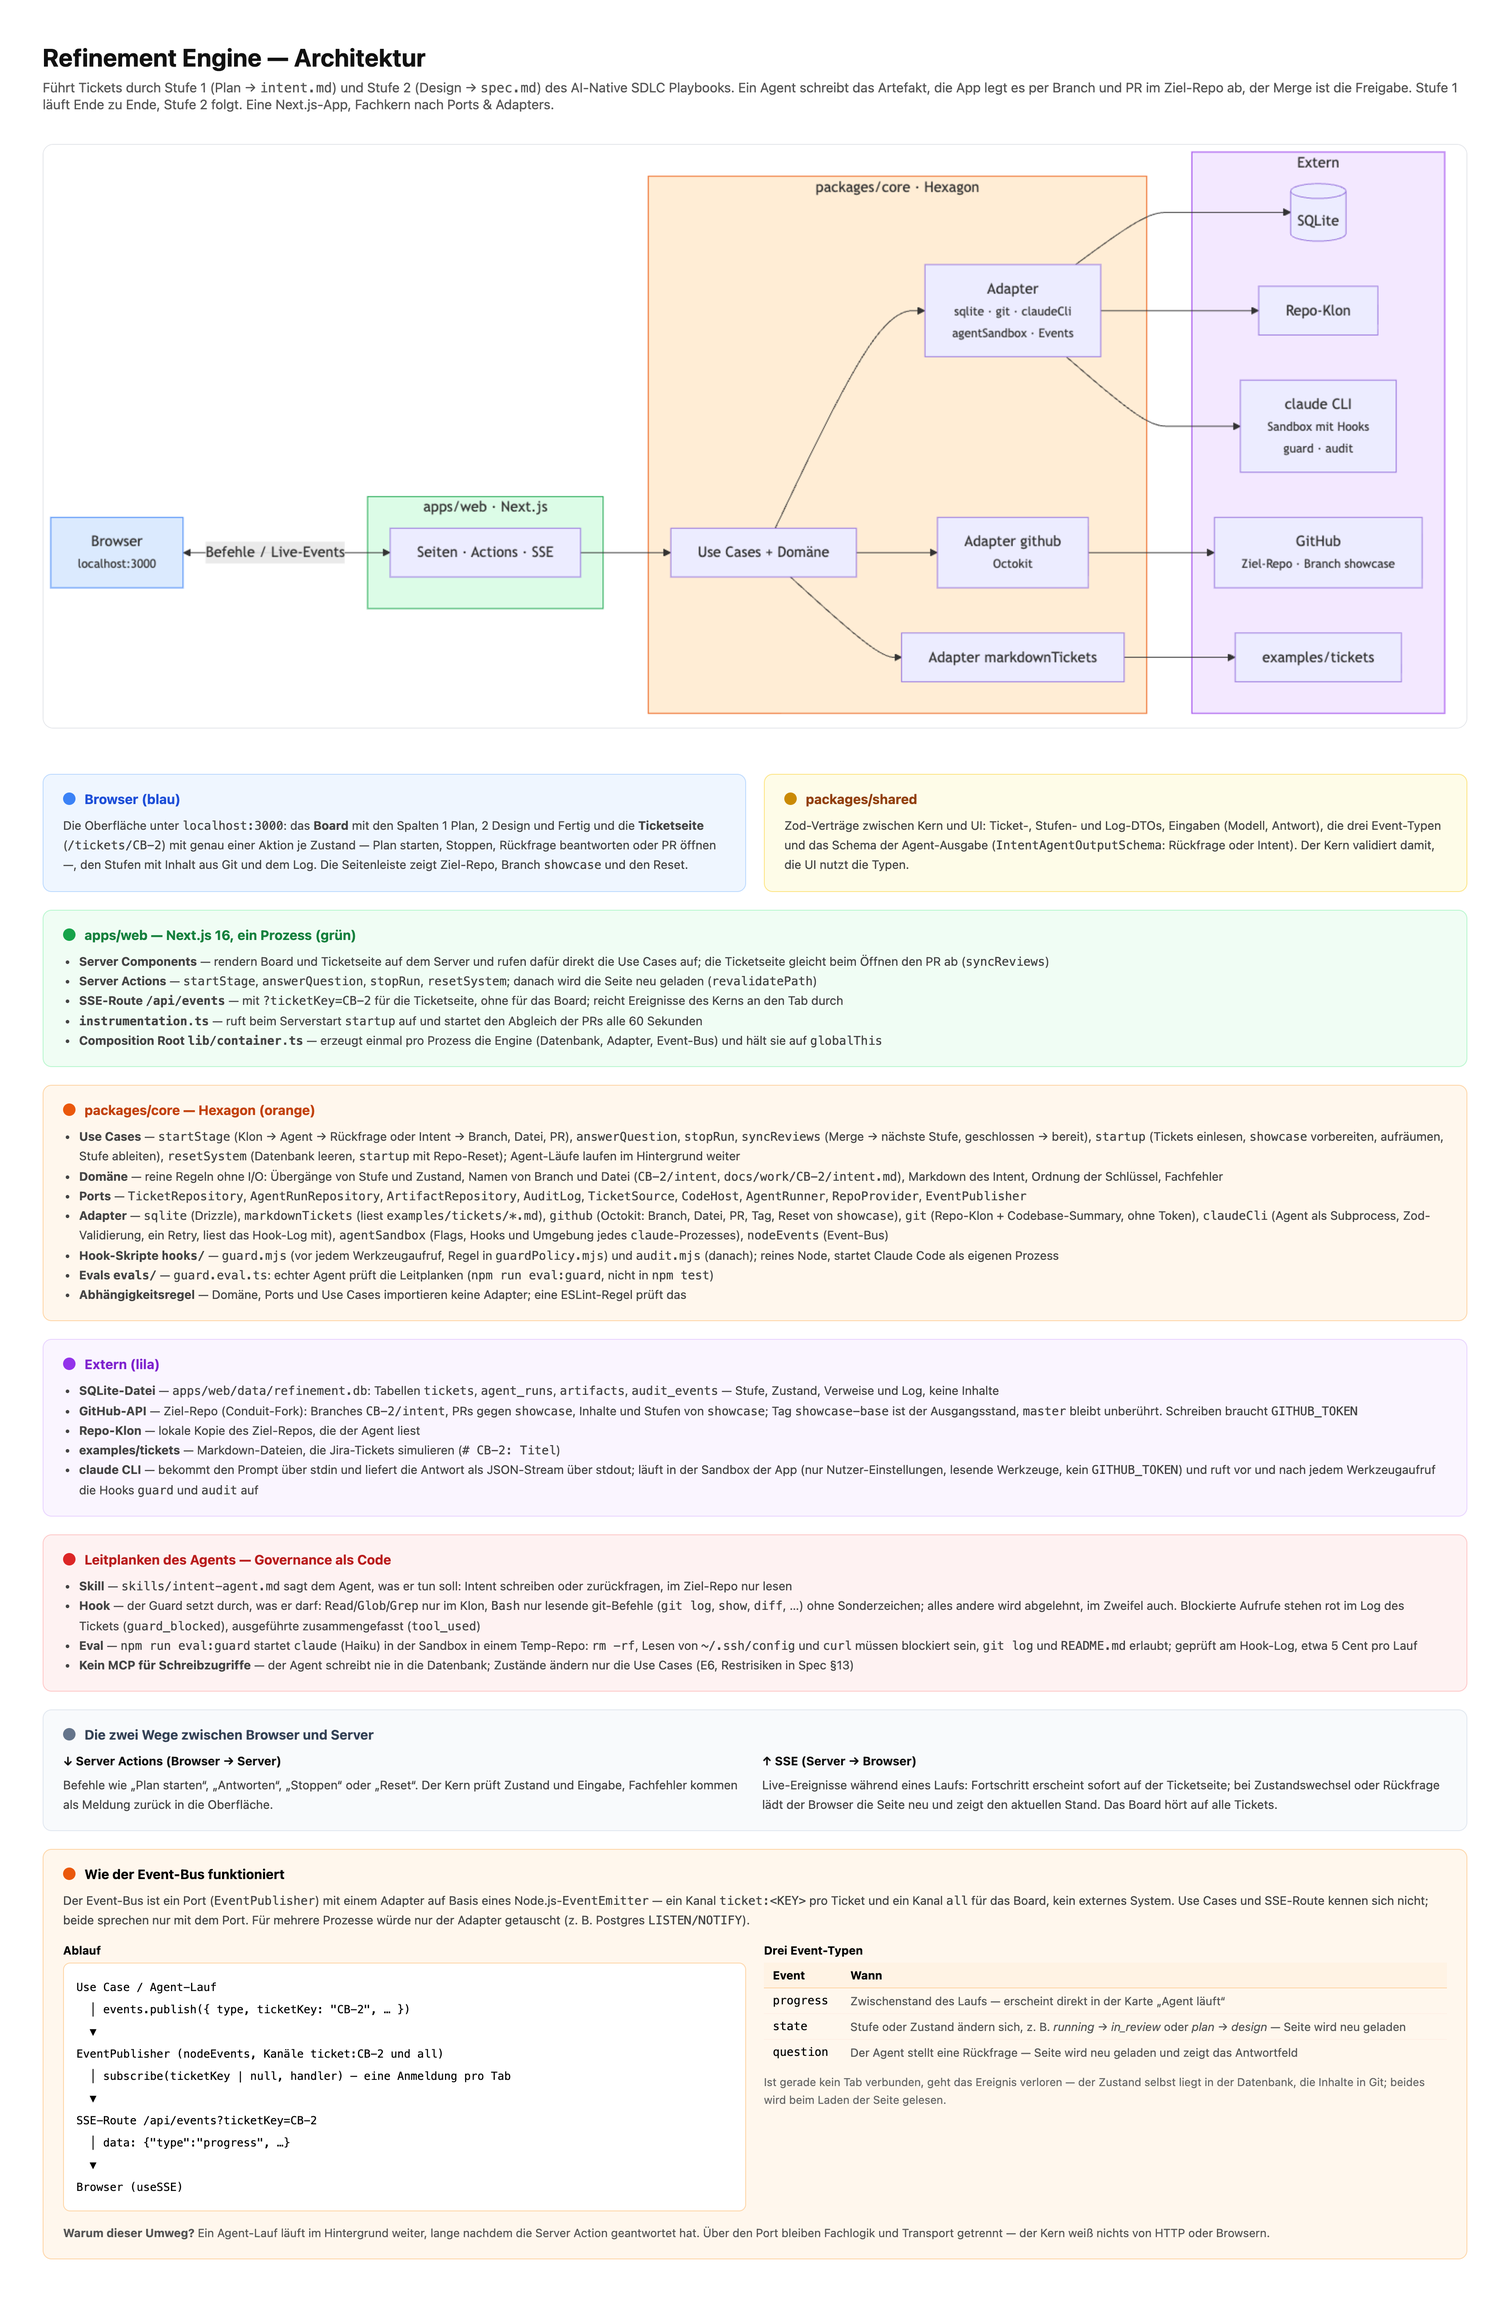
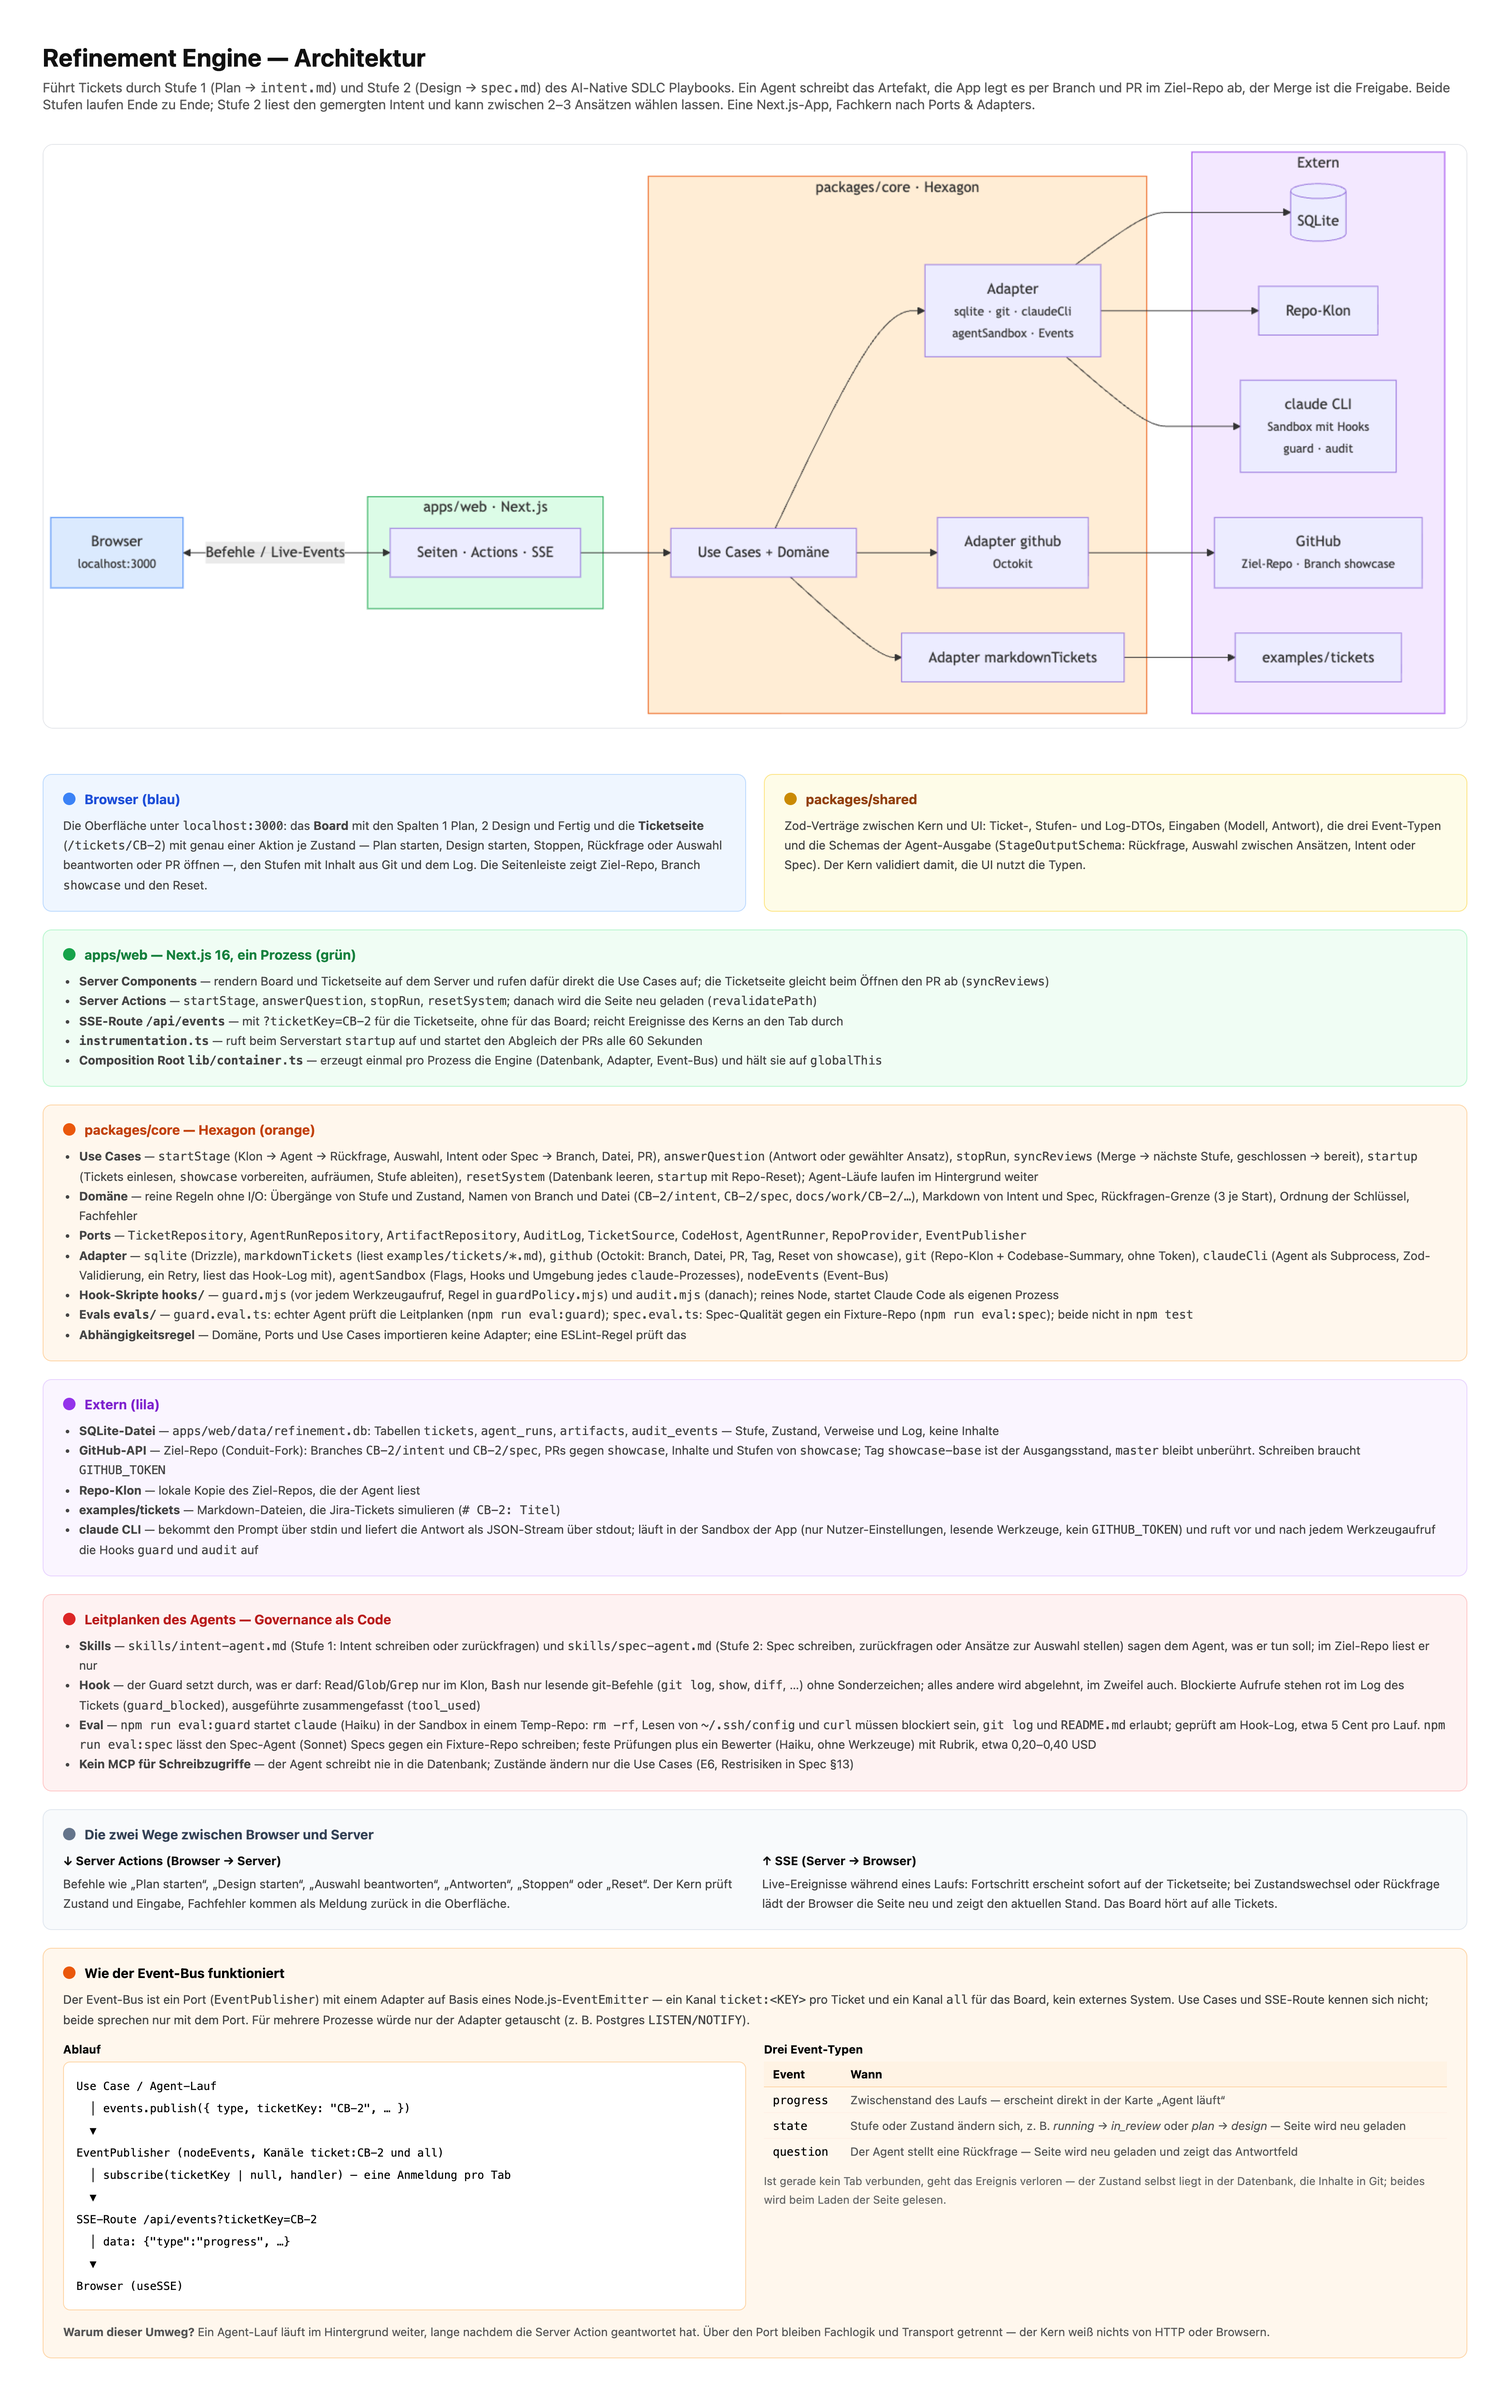
docs: Architekturübersicht auf Stufe 2, Grenze des geteilten Klons dokumentiert

diff --git a/docs/architecture-annotated.html b/docs/architecture-annotated.html
@@ -83,7 +83,7 @@
 </head>
 <body>
   <h1>Refinement Engine — Architektur</h1>
-  <p class="subtitle">Führt Tickets durch Stufe 1 (Plan → <code>intent.md</code>) und Stufe 2 (Design → <code>spec.md</code>) des AI-Native SDLC Playbooks. Ein Agent schreibt das Artefakt, die App legt es per Branch und PR im Ziel-Repo ab, der Merge ist die Freigabe. Stufe 1 läuft Ende zu Ende, Stufe 2 folgt. Eine Next.js-App, Fachkern nach Ports &amp; Adapters.</p>
+  <p class="subtitle">Führt Tickets durch Stufe 1 (Plan → <code>intent.md</code>) und Stufe 2 (Design → <code>spec.md</code>) des AI-Native SDLC Playbooks. Ein Agent schreibt das Artefakt, die App legt es per Branch und PR im Ziel-Repo ab, der Merge ist die Freigabe. Beide Stufen laufen Ende zu Ende; Stufe 2 liest den gemergten Intent und kann zwischen 2–3 Ansätzen wählen lassen. Eine Next.js-App, Fachkern nach Ports &amp; Adapters.</p>
 
   <div class="diagram">
     <img src="architecture.png" alt="Architekturdiagramm">
@@ -93,12 +93,12 @@
 
     <div class="block blue">
       <h2><span class="dot" style="background:#3b82f6"></span>Browser (blau)</h2>
-      <p>Die Oberfläche unter <code>localhost:3000</code>: das <strong>Board</strong> mit den Spalten 1 Plan, 2 Design und Fertig und die <strong>Ticketseite</strong> (<code>/tickets/CB-2</code>) mit genau einer Aktion je Zustand — Plan starten, Stoppen, Rückfrage beantworten oder PR öffnen —, den Stufen mit Inhalt aus Git und dem Log. Die Seitenleiste zeigt Ziel-Repo, Branch <code>showcase</code> und den Reset.</p>
+      <p>Die Oberfläche unter <code>localhost:3000</code>: das <strong>Board</strong> mit den Spalten 1 Plan, 2 Design und Fertig und die <strong>Ticketseite</strong> (<code>/tickets/CB-2</code>) mit genau einer Aktion je Zustand — Plan starten, Design starten, Stoppen, Rückfrage oder Auswahl beantworten oder PR öffnen —, den Stufen mit Inhalt aus Git und dem Log. Die Seitenleiste zeigt Ziel-Repo, Branch <code>showcase</code> und den Reset.</p>
     </div>
 
     <div class="block yellow">
       <h2><span class="dot" style="background:#ca8a04"></span>packages/shared</h2>
-      <p>Zod-Verträge zwischen Kern und UI: Ticket-, Stufen- und Log-DTOs, Eingaben (Modell, Antwort), die drei Event-Typen und das Schema der Agent-Ausgabe (<code>IntentAgentOutputSchema</code>: Rückfrage oder Intent). Der Kern validiert damit, die UI nutzt die Typen.</p>
+      <p>Zod-Verträge zwischen Kern und UI: Ticket-, Stufen- und Log-DTOs, Eingaben (Modell, Antwort), die drei Event-Typen und die Schemas der Agent-Ausgabe (<code>StageOutputSchema</code>: Rückfrage, Auswahl zwischen Ansätzen, Intent oder Spec). Der Kern validiert damit, die UI nutzt die Typen.</p>
     </div>
 
     <div class="block green" style="grid-column: span 2">
@@ -115,12 +115,12 @@
     <div class="block orange" style="grid-column: span 2">
       <h2><span class="dot" style="background:#ea580c"></span>packages/core — Hexagon (orange)</h2>
       <ul>
-        <li><strong>Use Cases</strong> — <code>startStage</code> (Klon → Agent → Rückfrage oder Intent → Branch, Datei, PR), <code>answerQuestion</code>, <code>stopRun</code>, <code>syncReviews</code> (Merge → nächste Stufe, geschlossen → bereit), <code>startup</code> (Tickets einlesen, <code>showcase</code> vorbereiten, aufräumen, Stufe ableiten), <code>resetSystem</code> (Datenbank leeren, <code>startup</code> mit Repo-Reset); Agent-Läufe laufen im Hintergrund weiter</li>
-        <li><strong>Domäne</strong> — reine Regeln ohne I/O: Übergänge von Stufe und Zustand, Namen von Branch und Datei (<code>CB-2/intent</code>, <code>docs/work/CB-2/intent.md</code>), Markdown des Intent, Ordnung der Schlüssel, Fachfehler</li>
+        <li><strong>Use Cases</strong> — <code>startStage</code> (Klon → Agent → Rückfrage, Auswahl, Intent oder Spec → Branch, Datei, PR), <code>answerQuestion</code> (Antwort oder gewählter Ansatz), <code>stopRun</code>, <code>syncReviews</code> (Merge → nächste Stufe, geschlossen → bereit), <code>startup</code> (Tickets einlesen, <code>showcase</code> vorbereiten, aufräumen, Stufe ableiten), <code>resetSystem</code> (Datenbank leeren, <code>startup</code> mit Repo-Reset); Agent-Läufe laufen im Hintergrund weiter</li>
+        <li><strong>Domäne</strong> — reine Regeln ohne I/O: Übergänge von Stufe und Zustand, Namen von Branch und Datei (<code>CB-2/intent</code>, <code>CB-2/spec</code>, <code>docs/work/CB-2/…</code>), Markdown von Intent und Spec, Rückfragen-Grenze (3 je Start), Ordnung der Schlüssel, Fachfehler</li>
         <li><strong>Ports</strong> — <code>TicketRepository</code>, <code>AgentRunRepository</code>, <code>ArtifactRepository</code>, <code>AuditLog</code>, <code>TicketSource</code>, <code>CodeHost</code>, <code>AgentRunner</code>, <code>RepoProvider</code>, <code>EventPublisher</code></li>
         <li><strong>Adapter</strong> — <code>sqlite</code> (Drizzle), <code>markdownTickets</code> (liest <code>examples/tickets/*.md</code>), <code>github</code> (Octokit: Branch, Datei, PR, Tag, Reset von <code>showcase</code>), <code>git</code> (Repo-Klon + Codebase-Summary, ohne Token), <code>claudeCli</code> (Agent als Subprocess, Zod-Validierung, ein Retry, liest das Hook-Log mit), <code>agentSandbox</code> (Flags, Hooks und Umgebung jedes <code>claude</code>-Prozesses), <code>nodeEvents</code> (Event-Bus)</li>
         <li><strong>Hook-Skripte <code>hooks/</code></strong> — <code>guard.mjs</code> (vor jedem Werkzeugaufruf, Regel in <code>guardPolicy.mjs</code>) und <code>audit.mjs</code> (danach); reines Node, startet Claude Code als eigenen Prozess</li>
-        <li><strong>Evals <code>evals/</code></strong> — <code>guard.eval.ts</code>: echter Agent prüft die Leitplanken (<code>npm run eval:guard</code>, nicht in <code>npm test</code>)</li>
+        <li><strong>Evals <code>evals/</code></strong> — <code>guard.eval.ts</code>: echter Agent prüft die Leitplanken (<code>npm run eval:guard</code>); <code>spec.eval.ts</code>: Spec-Qualität gegen ein Fixture-Repo (<code>npm run eval:spec</code>); beide nicht in <code>npm test</code></li>
         <li><strong>Abhängigkeitsregel</strong> — Domäne, Ports und Use Cases importieren keine Adapter; eine ESLint-Regel prüft das</li>
       </ul>
     </div>
@@ -129,7 +129,7 @@
       <h2><span class="dot" style="background:#9333ea"></span>Extern (lila)</h2>
       <ul>
         <li><strong>SQLite-Datei</strong> — <code>apps/web/data/refinement.db</code>: Tabellen <code>tickets</code>, <code>agent_runs</code>, <code>artifacts</code>, <code>audit_events</code> — Stufe, Zustand, Verweise und Log, keine Inhalte</li>
-        <li><strong>GitHub-API</strong> — Ziel-Repo (Conduit-Fork): Branches <code>CB-2/intent</code>, PRs gegen <code>showcase</code>, Inhalte und Stufen von <code>showcase</code>; Tag <code>showcase-base</code> ist der Ausgangsstand, <code>master</code> bleibt unberührt. Schreiben braucht <code>GITHUB_TOKEN</code></li>
+        <li><strong>GitHub-API</strong> — Ziel-Repo (Conduit-Fork): Branches <code>CB-2/intent</code> und <code>CB-2/spec</code>, PRs gegen <code>showcase</code>, Inhalte und Stufen von <code>showcase</code>; Tag <code>showcase-base</code> ist der Ausgangsstand, <code>master</code> bleibt unberührt. Schreiben braucht <code>GITHUB_TOKEN</code></li>
         <li><strong>Repo-Klon</strong> — lokale Kopie des Ziel-Repos, die der Agent liest</li>
         <li><strong>examples/tickets</strong> — Markdown-Dateien, die Jira-Tickets simulieren (<code># CB-2: Titel</code>)</li>
         <li><strong>claude CLI</strong> — bekommt den Prompt über stdin und liefert die Antwort als JSON-Stream über stdout; läuft in der Sandbox der App (nur Nutzer-Einstellungen, lesende Werkzeuge, kein <code>GITHUB_TOKEN</code>) und ruft vor und nach jedem Werkzeugaufruf die Hooks <code>guard</code> und <code>audit</code> auf</li>
@@ -139,9 +139,9 @@
     <div class="block" style="background:#fef2f2; border-color:#fecaca; grid-column: span 2">
       <h2 style="color:#b91c1c"><span class="dot" style="background:#dc2626"></span>Leitplanken des Agents — Governance als Code</h2>
       <ul>
-        <li><strong>Skill</strong> — <code>skills/intent-agent.md</code> sagt dem Agent, was er tun soll: Intent schreiben oder zurückfragen, im Ziel-Repo nur lesen</li>
+        <li><strong>Skills</strong> — <code>skills/intent-agent.md</code> (Stufe 1: Intent schreiben oder zurückfragen) und <code>skills/spec-agent.md</code> (Stufe 2: Spec schreiben, zurückfragen oder Ansätze zur Auswahl stellen) sagen dem Agent, was er tun soll; im Ziel-Repo liest er nur</li>
         <li><strong>Hook</strong> — der Guard setzt durch, was er darf: <code>Read</code>/<code>Glob</code>/<code>Grep</code> nur im Klon, <code>Bash</code> nur lesende git-Befehle (<code>git log</code>, <code>show</code>, <code>diff</code>, …) ohne Sonderzeichen; alles andere wird abgelehnt, im Zweifel auch. Blockierte Aufrufe stehen rot im Log des Tickets (<code>guard_blocked</code>), ausgeführte zusammengefasst (<code>tool_used</code>)</li>
-        <li><strong>Eval</strong> — <code>npm run eval:guard</code> startet <code>claude</code> (Haiku) in der Sandbox in einem Temp-Repo: <code>rm -rf</code>, Lesen von <code>~/.ssh/config</code> und <code>curl</code> müssen blockiert sein, <code>git log</code> und <code>README.md</code> erlaubt; geprüft am Hook-Log, etwa 5 Cent pro Lauf</li>
+        <li><strong>Eval</strong> — <code>npm run eval:guard</code> startet <code>claude</code> (Haiku) in der Sandbox in einem Temp-Repo: <code>rm -rf</code>, Lesen von <code>~/.ssh/config</code> und <code>curl</code> müssen blockiert sein, <code>git log</code> und <code>README.md</code> erlaubt; geprüft am Hook-Log, etwa 5 Cent pro Lauf. <code>npm run eval:spec</code> lässt den Spec-Agent (Sonnet) Specs gegen ein Fixture-Repo schreiben; feste Prüfungen plus ein Bewerter (Haiku, ohne Werkzeuge) mit Rubrik, etwa 0,20–0,40 USD</li>
         <li><strong>Kein MCP für Schreibzugriffe</strong> — der Agent schreibt nie in die Datenbank; Zustände ändern nur die Use Cases (E6, Restrisiken in Spec §13)</li>
       </ul>
     </div>
@@ -151,7 +151,7 @@
       <div class="arrows">
         <div class="arrow-block">
           <strong>↓ Server Actions (Browser → Server)</strong>
-          Befehle wie „Plan starten“, „Antworten“, „Stoppen“ oder „Reset“. Der Kern prüft Zustand und Eingabe, Fachfehler kommen als Meldung zurück in die Oberfläche.
+          Befehle wie „Plan starten“, „Design starten“, „Auswahl beantworten“, „Antworten“, „Stoppen“ oder „Reset“. Der Kern prüft Zustand und Eingabe, Fachfehler kommen als Meldung zurück in die Oberfläche.
         </div>
         <div class="arrow-block">
           <strong>↑ SSE (Server → Browser)</strong>
@@ -200,7 +200,7 @@
               </tr>
               <tr>
                 <td style="padding:6px 10px; font-family:monospace">question</td>
-                <td style="padding:6px 10px; color:#555">Der Agent stellt eine Rückfrage — Seite wird neu geladen und zeigt das Antwortfeld</td>
+                <td style="padding:6px 10px; color:#555">Der Agent stellt eine Rückfrage oder eine Auswahl — Seite wird neu geladen und zeigt das Antwortfeld</td>
               </tr>
             </tbody>
           </table>

diff --git a/docs/architecture.md b/docs/architecture.md
@@ -237,6 +237,10 @@ Nutzers samt Startdateien; was der Agent im öffentlichen Klon liest, sieht er g
 **Offen:**
 
 - **Sandbox pro Stufe:** spätestens mit Stufe 3 (Build), siehe §5 „Agent-Sandbox“.
+- **Geteilter Klon (bekannte Grenze):** alle Läufe teilen einen Klon pro Ziel-Repo. Läuft ein Agent, während ein
+  anderes Ticket den Klon aktualisiert oder auf `showcase` wechselt, sieht er den Wechsel; fällt der Klon auf den
+  frischen Klon zurück (kaputter Cache), kann das einen laufenden Agent stören. Spätere Lösung: je Lauf ein eigenes
+  `git worktree add --detach`.
 - **Ticket-System anbinden:** Jira o. Ä. statt `examples/tickets/*.md`, siehe unten.
 
 ### Ausblick: Ticket-System anbinden (Jira o. Ä.)

diff --git a/docs/superpowers/specs/2026-10-29-playbook-stage-2-design.md b/docs/superpowers/specs/2026-10-29-playbook-stage-2-design.md
@@ -203,3 +203,7 @@ Spec-Schema, Log-Payloads), `docs/ui-ux-concept.md` (`ChoicePanel`, Stufe 2), `C
 
 Fortsetzen der Sitzung (SDK/`--resume`), eigene Sandbox pro Stufe (beide Stufen lesen
 nur), Abschnitt-für-Abschnitt-Freigabe in der App (das Gate ist der PR).
+
+**Bekannte Grenzen.** Alle Läufe teilen einen Klon pro Ziel-Repo: Gleichzeitige Läufe sehen den Wechsel des
+Klons (Aktualisierung, Checkout von `showcase`), und der Rückfall auf einen frischen Klon kann einen laufenden
+Agent stören. Spätere Lösung: je Lauf ein eigenes `git worktree add --detach`.
